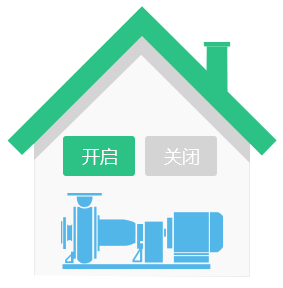
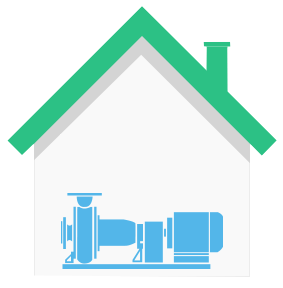
ffff
ffff

Changed region(s): [[0.5088, 0.4688, 0.7915, 0.625], [0.1979, 0.4688, 0.4806, 0.625]]

diff --git a/ylapp1/sbkz_sub.html b/ylapp1/sbkz_sub.html
@@ -33,7 +33,13 @@
 			<div class="mui-scroll">
 				<!--数据列表-->
 				<ul class="mui-table-view mui-table-view-chevron">
-					<li class="mui-table-view-cell"><div style="background-position:center;background-size:contain;background-repeat:no-repeat;background-image:url(img/machineHouse.png);height: 200px;"></div></li>
+					<li class="mui-table-view-cell">
+						<div style="text-align: center;background-color: red;background-position:center;background-size:contain;background-repeat:no-repeat;background-image:url(img/machineHouse.png);height: 200px;">
+								<div class="mui-switch mui-switch-blue mui-active" style="margin: 0px;">
+									<div class="mui-switch-handle"></div>
+								</div>
+						</div>
+					</li>
 					<li class="mui-table-view-cell"><span class="listt">运行状态</span><span>开启</span></li>
 					<li class="mui-table-view-cell"><span class="listt">启动时间</span><span>01:10</span></li>
 					<li class="mui-table-view-cell"><span class="listt">瞬时流量</span><span>63立方米/小时</span></li>
@@ -48,6 +54,7 @@
 			</div>
 		</div> 
 		<script src="js/mui.min.js"></script>
+		<script src="js/app.js"></script>
 		<script>
 			mui.init({
 				pullRefresh: {
@@ -96,6 +103,7 @@
 			}
 			if (mui.os.plus) {
 				mui.plusReady(function() {
+					sbkz_init();
 					//setTimeout(function() {
 					//	mui('#pullrefresh').pullRefresh().pullupLoading();
 					//}, 1000);
@@ -103,8 +111,13 @@
 				});
 			} else {
 				mui.ready(function() {
+					sbkz_init();
 					//mui('#pullrefresh').pullRefresh().pullupLoading();
 				});
+			}
+			
+			function sbkz_init(){
+				
 			}
 		</script>
 	</body>

diff --git a/ylapp1/js/app.js b/ylapp1/js/app.js
@@ -163,4 +163,5 @@
 	
 	owner.hosturl = "http://1.85.44.234/";
 	owner.loginurl = owner.hosturl + "admin/ashx/bg_user_login.ashx";	
+	owner.bg_user_login = "control/ashx/yangling.ashx";
 }(mui, window.app = {}));
